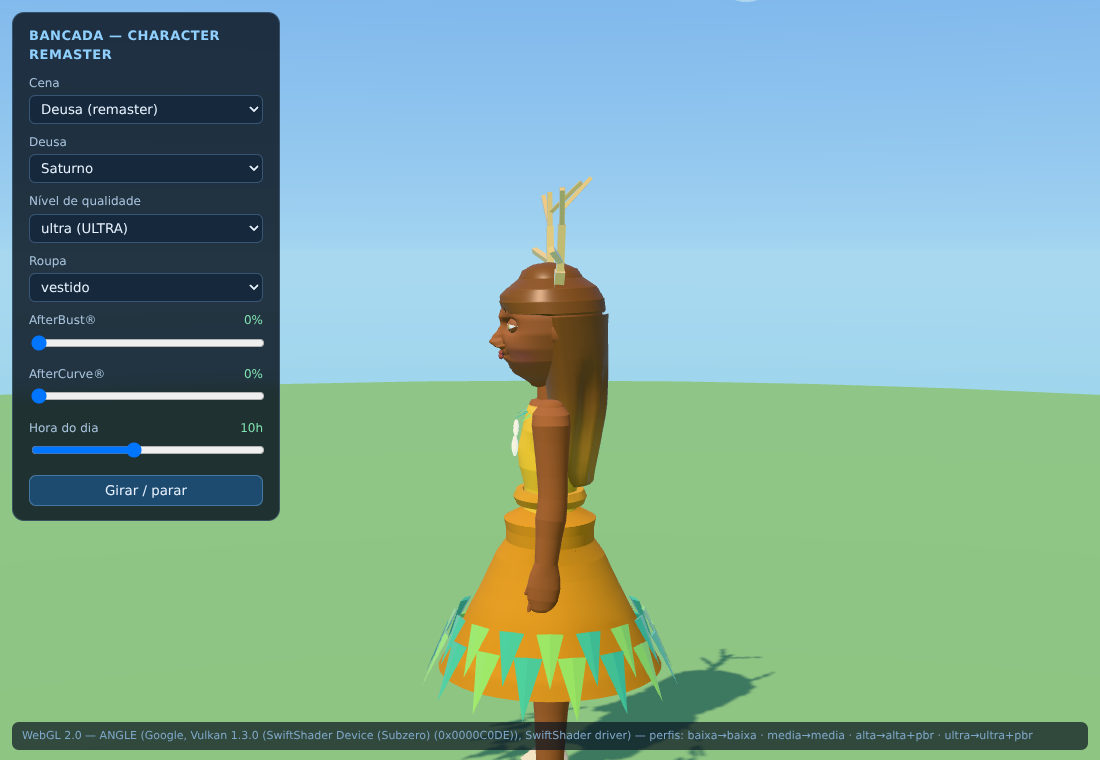
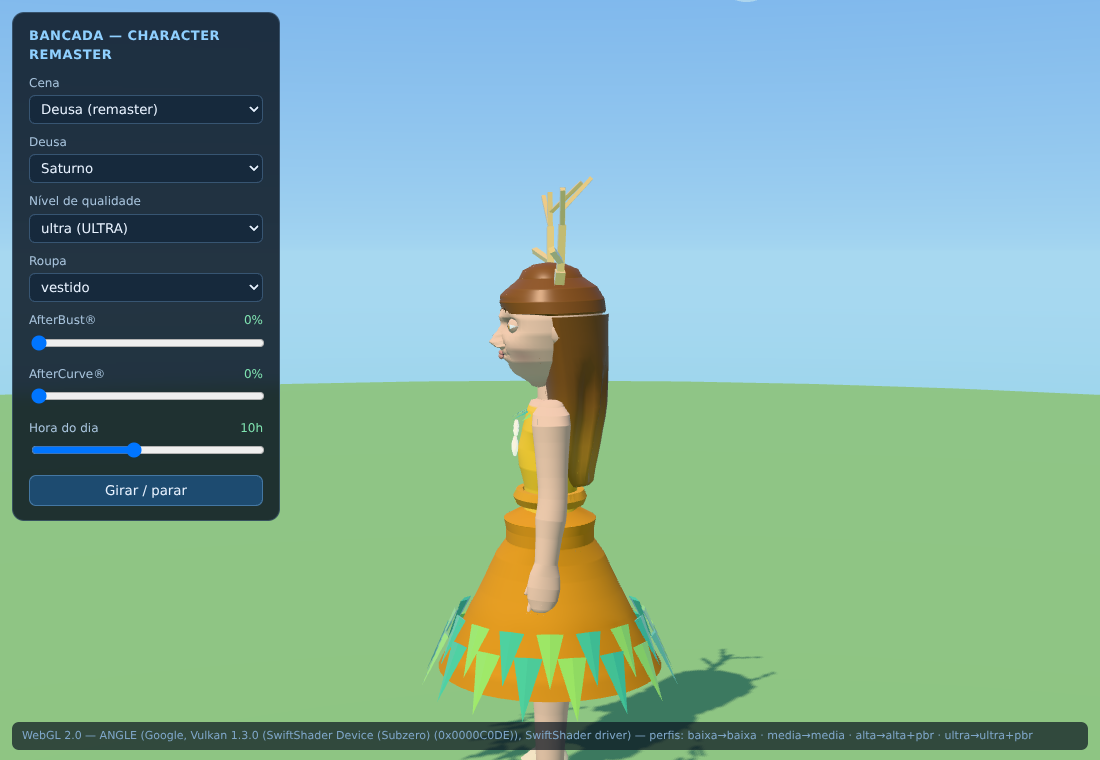
Saturno: pele clara, a pedido do Criador
`#a96c45` → `#f3d2c1`.

O tom sai do catálogo canônico `SKIN_TONES`, não é inventado. Não é o
`#ffe0c8` da Akemi, que é o outro tom pálido da paleta: duas deusas
com a mesma pele exata encurtam o elenco, e nenhuma outra personagem
usava `#f3d2c1`.

Junto: o caso de teste da identidade canônica deixou de afirmar que a
pele é preservada e passa a guardar o valor novo, com o motivo; as
oito capturas do "depois" foram refeitas; o relatório registra a
troca na secção 4.

Revalidado: 27/27 no arquivo da Saturno, suíte 1 208 passam / 11
pulados / 1 falha preexistente, tsc limpo, build em 562 ms, e os
hashes continuam 92 iguais / 4 diferentes — os 4 são os LODs dela.

Changed region(s): [[0.4327, 0.3934, 0.5255, 0.8171], [0.4636, 0.9079, 0.5255, 1.0], [0.4945, 0.2421, 0.5255, 0.3026]]

diff --git a/tests/unit/saturno-remaster.test.ts b/tests/unit/saturno-remaster.test.ts
@@ -184,11 +184,16 @@ describe('Saturno 2.0 — a ficha', () => {
 
   it('preserva a identidade canônica da ficha', () => {
     // O briefing manda elevar o acabamento, não trocar a personagem.
-    // Aura, paleta, olhos, pele, altura e título são quem ela é.
+    // Aura, paleta, olhos, altura e título são quem ela é.
+    //
+    // A pele é a exceção, e foi pedida pelo Criador depois do PR
+    // aberto: `#a96c45` → `#f3d2c1`. O tom novo sai do catálogo
+    // canônico `SKIN_TONES`, não é inventado, e não é o `#ffe0c8` da
+    // Akemi — duas deusas com a mesma pele exata encurtam o elenco.
     expect(saturno.aura).toBe(0xffd98a);
     expect(saturno.colors).toEqual(['#ffd98a', '#e08a2f']);
     expect(saturno.appearance.eyeColor).toBe('#c98a2b');
-    expect(saturno.appearance.skin).toBe('#a96c45');
+    expect(saturno.appearance.skin).toBe('#f3d2c1');
     expect(saturno.appearance.hairColor).toBe('#8a5a2b');
     expect(saturno.appearance.height).toBe(1.0);
     expect(saturno.title).toBe('Defensora dos Animais');

diff --git a/src/characters/Pantheon.ts b/src/characters/Pantheon.ts
@@ -909,7 +909,7 @@ const SATURNO: EdenCharacter = {
   //
   // `accessory: 'nenhum'` é deliberado: a galhada nasce do penteado
   // `silvestre`, não do acessório, e assim ela deixa a `flor` para a Maze.
-  appearance: look('#a96c45', 'silvestre', '#8a5a2b', '#c98a2b', 'guardia', '#ffd84a', '#d99a30', '#f3ead6', 'nenhum', 1.0),
+  appearance: look('#f3d2c1', 'silvestre', '#8a5a2b', '#c98a2b', 'guardia', '#ffd84a', '#d99a30', '#f3ead6', 'nenhum', 1.0),
   aura: 0xffd98a,
   contact: {
     handle: '@saturno',

diff --git a/docs/VALIDACAO-SATURNO-2.0.md b/docs/VALIDACAO-SATURNO-2.0.md
@@ -95,7 +95,7 @@ intactos.
 
 ```
 antes   look('#a96c45', 'cacheado', '#8a5a2b', '#c98a2b', 'casual',  '#ffd84a', '#7ddc5a', '#f3ead6', 'flor',   1.0)
-depois  look('#a96c45', 'silvestre','#8a5a2b', '#c98a2b', 'guardia', '#ffd84a', '#d99a30', '#f3ead6', 'nenhum', 1.0)
+depois  look('#f3d2c1', 'silvestre','#8a5a2b', '#c98a2b', 'guardia', '#ffd84a', '#d99a30', '#f3ead6', 'nenhum', 1.0)
 ```
 
 **Três dos quatro campos trocados eram compartilhados:**
@@ -113,9 +113,15 @@ inteira e a figura saía como uma deusa-da-vegetação genérica — o que
 o briefing proíbe e o que atropelava a Maze. O ouro virou o pano; o
 verde virou o vidro.
 
-**Preservado:** aura `0xffd98a`, paleta `['#ffd98a','#e08a2f']`, pele,
-cor do cabelo, cor dos olhos, altura, título, domínio, bio, contato e
-o lugar dela em frente à Casa EdenPawl.
+**A pele:** `#a96c45` → **`#f3d2c1`**, pedido direto do Criador depois
+do PR aberto. O tom sai do catálogo canônico `SKIN_TONES`, não é
+inventado, e **não** é o `#ffe0c8` da Akemi — duas deusas com a mesma
+pele exata encurtam o elenco. Nenhuma outra personagem usava
+`#f3d2c1`.
+
+**Preservado:** aura `0xffd98a`, paleta `['#ffd98a','#e08a2f']`, cor
+do cabelo, cor dos olhos, altura, título, domínio, bio, contato e o
+lugar dela em frente à Casa EdenPawl.
 
 ---
 
@@ -377,7 +383,7 @@ Nenhuma delas sobreviveu, e todas estão comentadas no código:
 |---|---|
 | investigação antes de implementar | ✅ dois achados que mudaram o desenho |
 | plano apresentado antes do código | ✅ `docs/PLANO-SATURNO-2.0.md`, commit `040b93f` |
-| não inventar nada contra o cânone | ✅ título, domínio, aura, paleta, bio e lugar preservados |
+| não inventar nada contra o cânone | ✅ título, domínio, aura, paleta, bio e lugar preservados; a pele nova sai do catálogo `SKIN_TONES` |
 | conexão com natureza e animais | ✅ galhada, pata EdenPawl, folhas de vidro |
 | vidro translúcido e materiais luminosos | ✅ `Glass` na galhada e nas folhas, `Holo` no emblema |
 | verdes, aqua, dourados | ✅ ouro no pano, verde-amarelado e verde-azulado no vidro |
